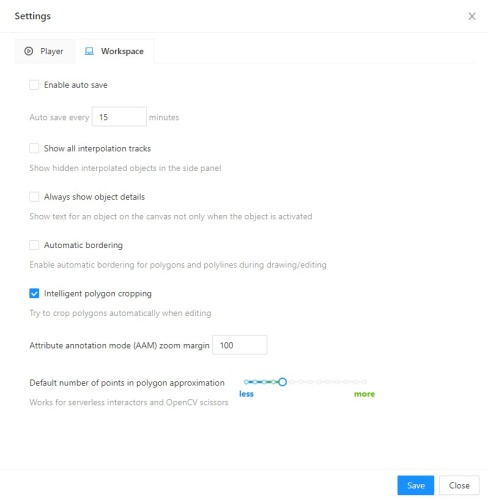
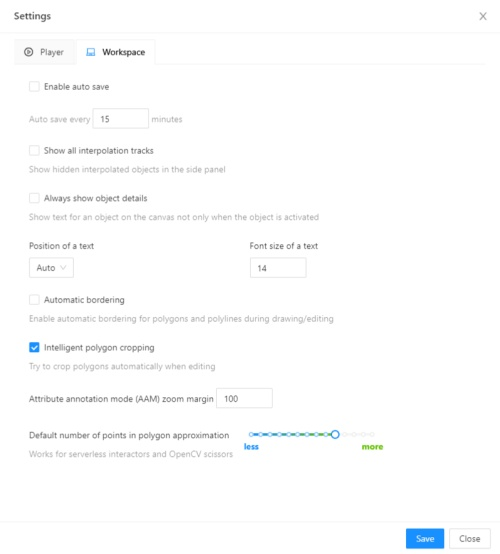
Update documentation about options to switch font size and position of the text (#3989)
* update settings section

* fix mistakes

* Update site/content/en/docs/manual/basics/settings.md

* Update site/content/en/docs/manual/basics/settings.md

diff --git a/site/content/en/docs/manual/basics/settings.md b/site/content/en/docs/manual/basics/settings.md
@@ -37,6 +37,12 @@ In tab `Workspace` you can:
 
   ![](/images/image152_detrac.jpg)
 
+- `Position of a text` - text positioning mode selection:
+  - `Auto` - the object details will be automatically placed where free space is.
+  - `Center` - the object details will be embedded to a corresponding object if possible.
+
+- `Font size of a text` - specifies the text size of the object details.
+
 - `Automatic bordering` - enable automatic bordering for polygons and polylines during drawing/editing.
   For more information To find out more, go to the section [annotation with polygons](/docs/manual/advanced/annotation-with-polygons/).
 
